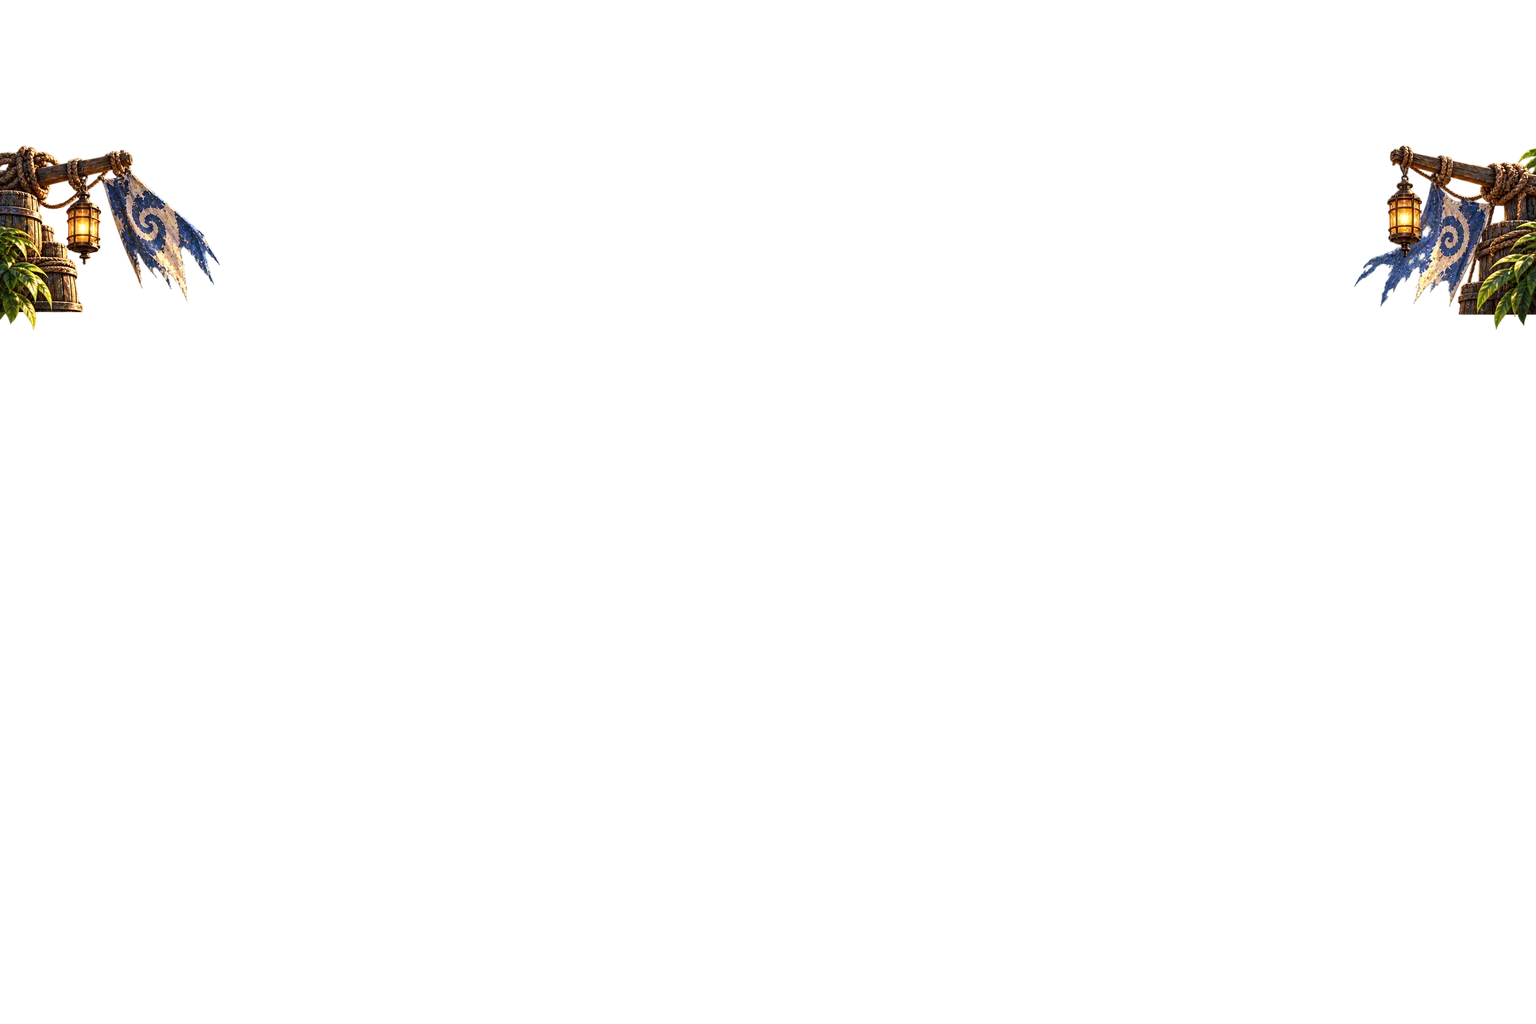
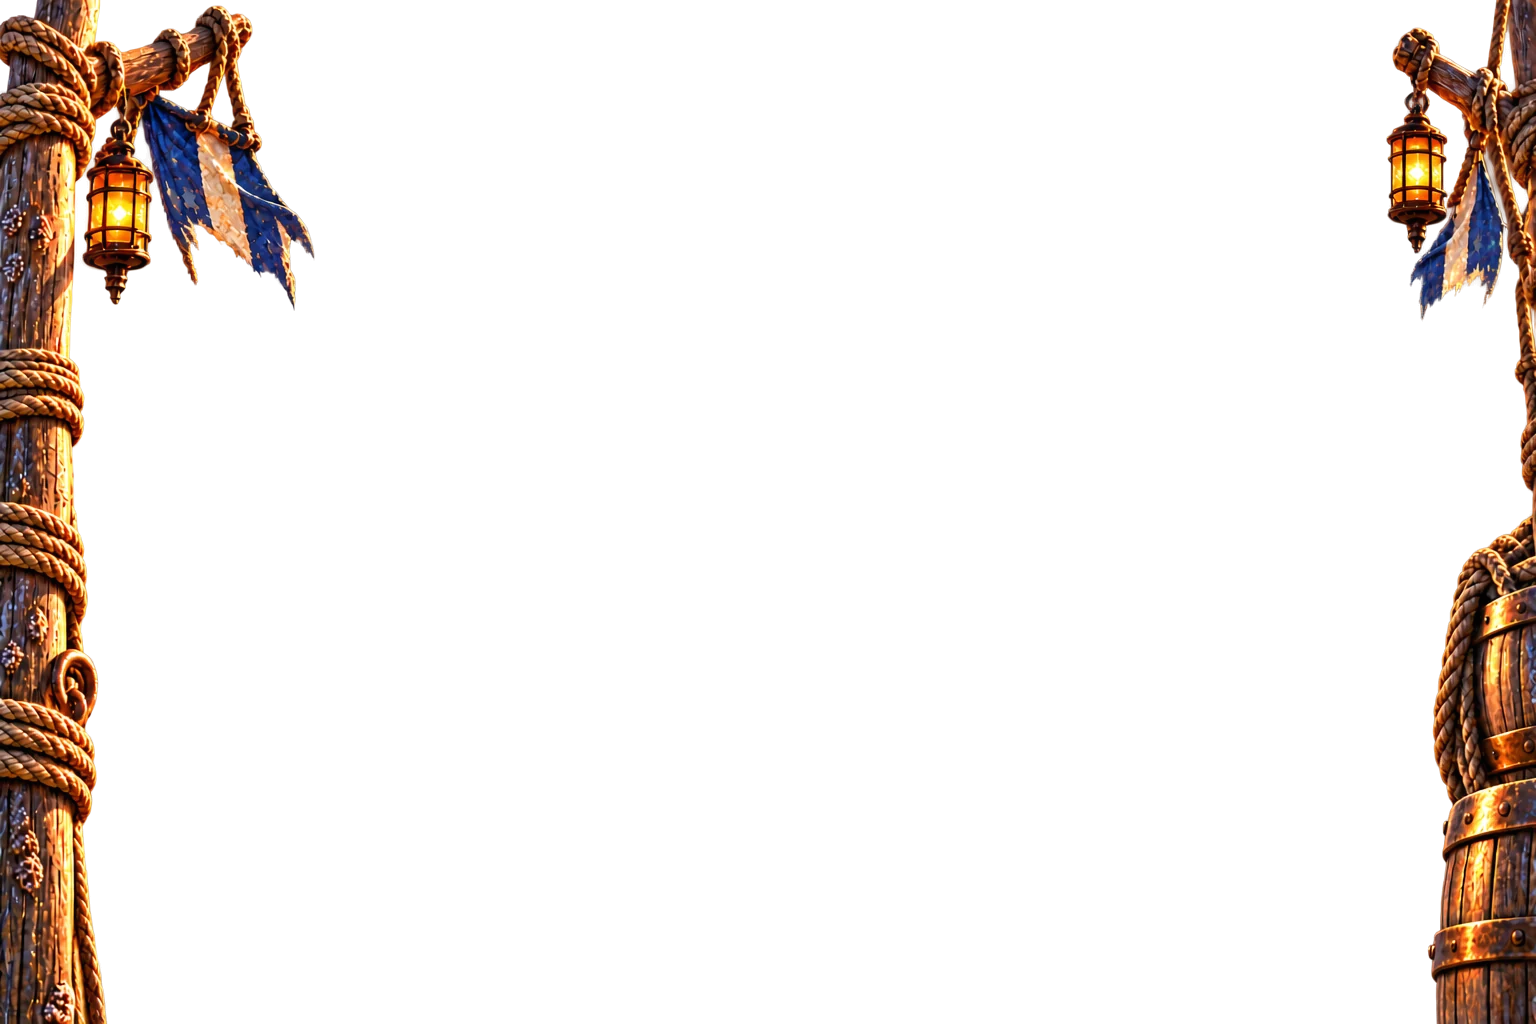
Wave 09's docks foreground once more, and wave 10's review page
bg_harbor_docks_fg.webp repainted on the model of the cove's: a
rope-wrapped post and a barrel stack in the side strips running off the
bottom, beams with lanterns and torn flags in from the side edges, the two
sides different. Attempt 3 of 3; nothing in the fighters' area or outside
the green areas.

art/review/wave-10.md: every wave 10 asset before and after, the walk as
an eight-frame strip, the look reference beside the new base.

Changed region(s): [[0.0, 0.0, 0.2188, 1.0], [0.875, 0.0, 1.0, 1.0]]

diff --git a/art/review/wave-10.md b/art/review/wave-10.md
@@ -1,0 +1,116 @@
+# Wave 10 review: Wren, dressed for all ages
+
+On `claude/project-thread-ftrlee`. Every picture of Captain Wren redone in chapter 2's covered look (`scenes/story_harbor_arrival.webp`): a teal collared shirt buttoned to the collarbone and tucked under her belts, and full dark brown trousers. Everything else unchanged. All edits are **attempt 1 of 3**; nothing flagged. Status stays `draft` until the parent approves.
+
+**What to review:** the look reference beside the new base, the portrait collars, the walk strip, and Wren in each big picture.
+
+## Checks (all sections)
+
+- [x] The look matches the reference, and nobody shows a bare midriff, a low neckline or bare thighs.
+- [x] Canvas sizes, cells, frame order and facing unchanged; every manifest entry unchanged.
+- [x] Each cell's feet sit within 2 px of the old cell's (measured on the shipped files).
+- [x] Sprite corners and every cell edge have alpha 0; `clean_sheets.py --dry-run` reports Wren's sheets clean.
+- [x] Big pictures: only a crop around Wren was edited and pasted back through a soft mask limited to what changed on her; every pixel outside the crop matched the original before the WebP export.
+- [x] The walk's upper body moves frame to frame as in the old walk (centroids within 2 px), so `"aligned"` stays.
+- [x] Size budgets: base 167 KiB, sheets 189 to 444 KiB, scenes 382 to 491 KiB, video references 229 to 301 KiB.
+- [x] `npm test`: 268 passed.
+
+## Section A: her base
+
+Look reference (cropped from `story_harbor_arrival`, x 420 to 780, y 120 to 864), the old base, the new base:
+
+![Look reference, old base, new base](wave-10/base-look-old-new.jpg)
+
+681×1024, anchor [341, 986] kept (feet at y 986 before and after). Transparent, no shadow.
+
+## Section B: her sheets
+
+Each cell was cropped, scaled 2× onto a 1024×1024 canvas, edited, scaled back and pasted into its own cell. Battle cells 2 (cast) and 5 (victory) and field cell 2 (talk) came back drawn larger; they were scaled back to the old figure height, then their feet lined up with the old cell's.
+
+### battle.webp (before above, after below)
+
+![battle before and after](wave-10/battle-before-after.jpg)
+
+### portraits.webp: the collar is buttoned to the collarbone in all six
+
+![portraits before and after](wave-10/portraits-before-after.jpg)
+
+### walk.webp: all eight frames in a row
+
+Before:
+
+![walk strip before](wave-10/walk-strip-before.jpg)
+
+After:
+
+![walk strip after](wave-10/walk-strip-after.jpg)
+
+![walk sheet before and after](wave-10/walk-before-after.jpg)
+
+### field.webp
+
+![field before and after](wave-10/field-before-after.jpg)
+
+## Section C: the big pictures
+
+Each shows Wren's crop before (left) and after (right). Outside these crops the pictures are unchanged.
+
+### `scenes/title_art.webp`: the title screen
+
+![title_art before and after](wave-10/title_art-wren-closeup.jpg)
+
+### `scenes/story_deck.webp`: the opening, on the deck (also a film first frame)
+
+![story_deck before and after](wave-10/story_deck-wren-closeup.jpg)
+
+### `scenes/story_fall.webp`: the opening, after the ram (also a film first frame; now retired by the new intro storyboard, kept as made)
+
+![story_fall before and after](wave-10/story_fall-wren-closeup.jpg)
+
+### `scenes/story_descent.webp`: the ride down to the grotto
+
+![story_descent before and after](wave-10/story_descent-wren-closeup.jpg)
+
+### `scenes/story_crystal_remade.webp`: the chapter 1 ending (also a film first frame)
+
+![story_crystal_remade before and after](wave-10/story_crystal_remade-wren-closeup.jpg)
+
+### `anchors/key_art.webp`: fallback and style reference
+
+![key_art before and after](wave-10/key_art-wren-closeup.jpg)
+
+### `anchors/cast_lineup.webp`: style reference
+
+![cast_lineup before and after](wave-10/cast_lineup-wren-closeup.jpg)
+
+### `anchors/battle_mock.webp`: style anchor
+
+![battle_mock before and after](wave-10/battle_mock-wren-closeup.jpg)
+
+## Section D: for the parent's films
+
+### `art/video-refs/ally_gunner/`: front, left, right (before, then after)
+
+![video references before and after](wave-10/video-refs-before-after.jpg)
+
+The front was edited first and passed as the reference for both profiles. 1024×1536, JPEG 90.
+
+### `art/video-refs/frames/`
+
+`story_deck`, `story_fall` and `story_crystal_remade` re-exported from the new paintings: `<id>.jpg` (1536×1024, JPEG 92) and `<id>-16x9.jpg` (the middle 16:9, y 80 to 944, at the existing file's size: 1920×1080, 1920×1080 and 1536×864). `story_fall_first.jpg` and `story_ram_first.jpg` untouched.
+
+**For the parent:** the chapter 1 ending's crystal film still shows the old outfit until it's remade from the new `frames/story_crystal_remade-16x9.jpg` (prompt in `art/video-refs/ending-clips.md`).
+
+<details><summary>Prompt (every edit)</summary>
+
+Each request attached the edit target, the look reference and (after Section A) the new `base.webp`; the profiles attached the new front instead of the base.
+
+```text
+Change only Wren's clothes, so she is dressed for an all-ages game, exactly as in the look reference: her cropped white blouse and the dark top under it become one loose teal shirt with a collar, buttoned up to her collarbone and tucked in under her belts, so no skin shows between the shirt and the belts and nothing is low-cut. Her ripped shorts and torn stocking become full dark brown canvas trousers, with the same thigh straps, holsters, brass knee guard and buckled boots over them, so no bare thigh shows. Keep everything else exactly as it is: her face and expression, her pose, size and framing, her arms, the copper-red braid, teal bandana and goggles, the long patched rust-red coat, the brass mechanical left arm, the crossed belts and the bandolier of glowing orange cells, the twin orange blasters, and the background.
+```
+
+Plus, per asset: keep the same canvas, position, size and pose, feet in the same place, a transparent background for sprites (opaque for pictures), no text; dressed for an all-ages game: no bare midriff, no low neckline or cleavage, no bare thighs.
+
+</details>
+
+Raw inputs and edits: `art/raw/wave-10/` (ignored).

diff --git a/art/waves/wave-09-harbor-finish.md b/art/waves/wave-09-harbor-finish.md
@@ -91,7 +91,7 @@ The foreground layers of `bg_harbor_docks` (barrels, rope and flags) and `bg_lig
 - Keep the same objects and light, so each still matches its arena.
 - Overwrite the files at the same paths.
 
-### ☐ `bg_harbor_docks_fg.webp`, once more
+### ☑ `bg_harbor_docks_fg.webp`, once more
 
 The first pass stays clear of the fighters, but all that's left is two small lantern-and-flag clusters, mirrored left to right, hanging in mid-air. Repaint it on the model of `bg_shipwreck_cove_fg.webp` (attach it as the layout reference):
 - **Each side strip:** a weathered mooring post wrapped in rope, or a stack of barrels with a coil of rope, standing in the strip and running off the bottom edge.
@@ -120,4 +120,4 @@ Commit, write `art/review/wave-09.md` with every asset, and tell the parent what
 
 - 2026-10-14, Section E lighthouse follow-up only: attempt 2 of 3 selected and shipped, superseding attempt 1’s parent-flagged floating clusters. Tall asymmetric wet-stone/kelp pillars run off the bottom and fronds hang from the top. Raw was too wide; complete sides translated outward 108 px without shrinking, clipping or fading at guide borders; near-invisible alpha noise and exact corner pixels cleared. Export QA: red rectangle alpha pixels 0, outside requested edge bands 0, corner alpha [0,0,0,0], all four groups attached at top/bottom edges. Requested top/bottom extensions go beyond the guide’s original green y ranges. Harbor foreground left byte-for-byte unchanged (3 attempts already used); no third lighthouse attempt. Before/after review updated; parent approval pending. 268 tests passed without installation; no commit attempted or push.
 
-- 2026-10-14, Section E harbor (Claude's check): bg_harbor_docks_fg.webp stays inside the green, but its pieces are small lantern-and-flag clusters that stop at y=330 instead of running off the top edge (unlike bg_shipwreck_cove_fg.webp), mirrored left to right, and lose the original barrels and rope. All 3 attempts used, so it's flagged for another pass.
+- 2026-10-14, Section E harbor (Claude's check): bg_harbor_docks_fg.webp stays inside the green, but its pieces are small lantern-and-flag clusters that stop at y=330 instead of running off the top edge (unlike bg_shipwreck_cove_fg.webp), mirrored left to right, and lose the original barrels and rope. All 3 attempts used, so it's flagged for another pass.- 2026-10-14, "once more" (wave 10 run): bg_harbor_docks_fg.webp repainted on the model of bg_shipwreck_cove_fg.webp: a rope-wrapped mooring post at the left and a barrel stack with rope at the right, both running off the bottom edge; a beam with a lantern and torn flag in from each side edge at the top; left and right differ. Attempt 3 of 3 selected (attempts 1 and 2 hung their flags and the side pieces into the fighters' area). Shipped file: 0 non-transparent pixels in the red area and 0 outside the green areas (the side strips run the full height, as the cove's do); 122 KB. Nothing flagged; parent approval pending. See art/review/wave-09.md.

diff --git a/art/review/wave-09.md b/art/review/wave-09.md
@@ -354,3 +354,11 @@ Both style anchors passed together as the existing unlabelled reference board. R
 
 
 Section E validation: `npm test` — **268 passed, 0 failed**, no installation. Existing manifest entries and Sections A–D review text/Notes preserved. Lighthouse attempt 2 is selected; harbor attempt 3 remains unchanged. Both foregrounds remain draft pending parent visual approval. No commit attempted; no push.
+
+## bg_harbor_docks_fg.webp, once more (run with wave 10)
+
+Over its arena, before (left) and after (right):
+
+![Docks foreground before and after, over bg_harbor_docks](wave-09/bg_harbor_docks_fg-once-more.jpg)
+
+Attempt 3 of 3. A rope-wrapped mooring post (left) and a barrel stack with rope (right) stand in the side strips and run off the bottom edge; a beam runs in from each side edge at the top with a lantern and a short torn flag; the two sides differ. Attempts 1 and 2 had the right pieces but hung the flags and the side pieces into the fighters' area. Attempt 3 is an edit of attempt 2 that shortens the flags and narrows the sides. Shipped WebP: 0 non-transparent pixels in the red rectangle and 0 outside the green areas; 1536×1024, 122 KB.
